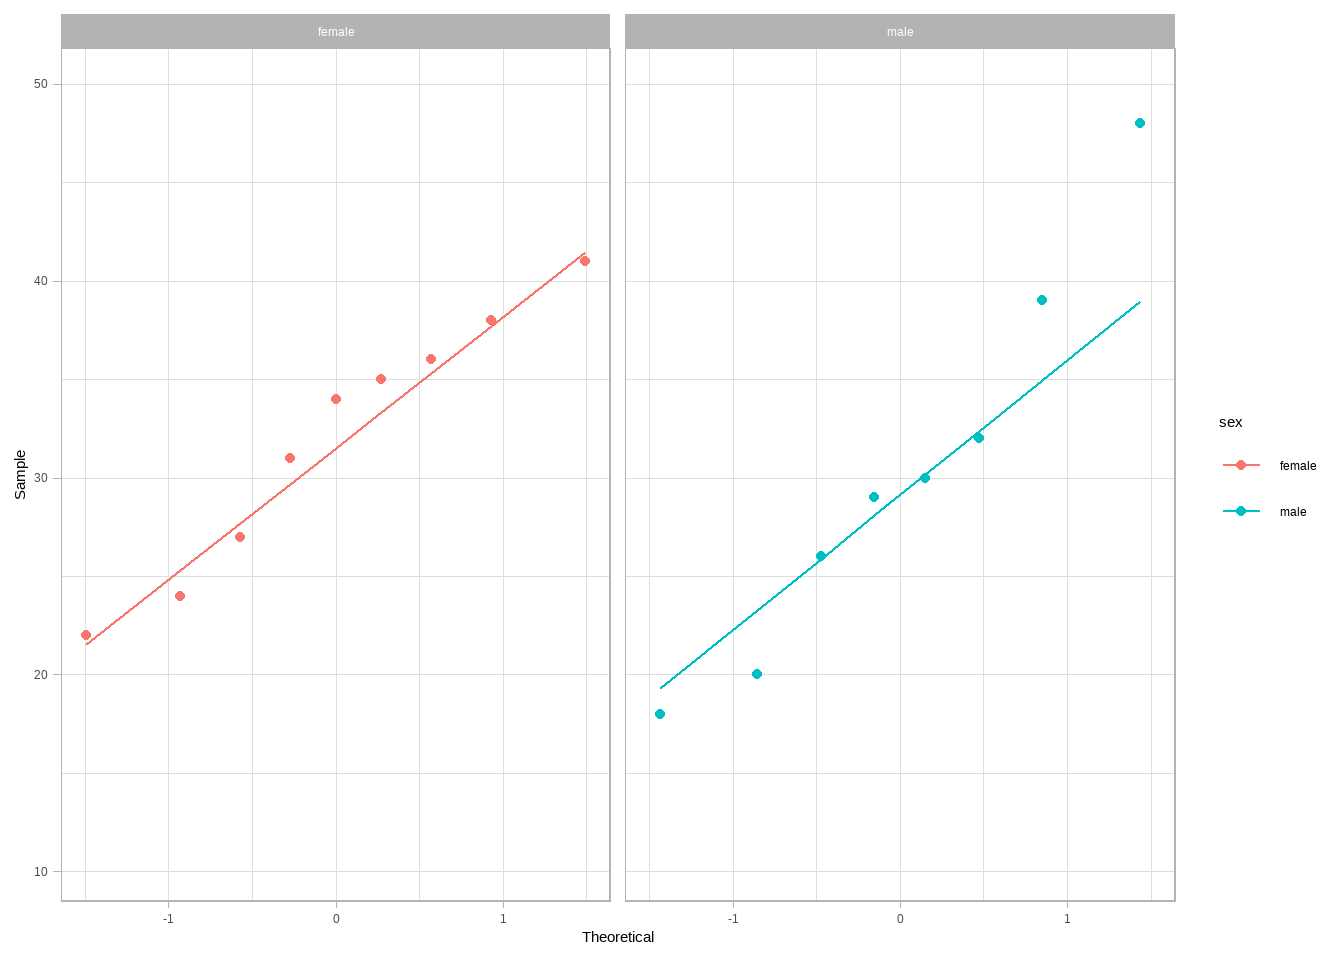
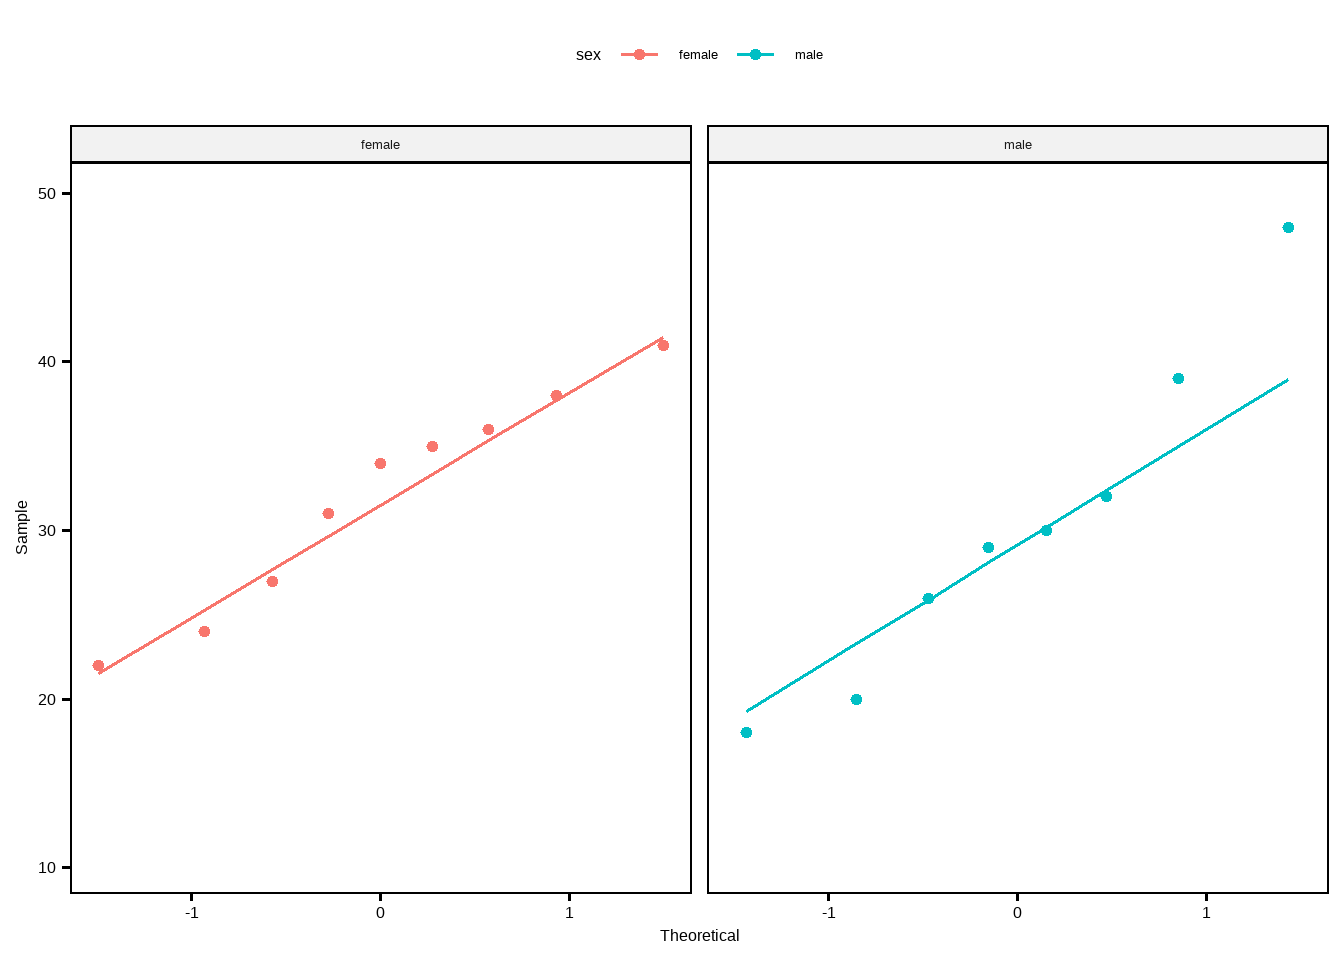
0.1.4

diff --git a/_book/nonparametric.html b/_book/nonparametric.html
@@ -230,7 +230,7 @@ window.Quarto = {
   <ul class="collapse">
   <li><a href="#research-question-1" id="toc-research-question-1" class="nav-link" data-scroll-target="#research-question-1"><span class="header-section-number">3.2.1</span> Research question</a></li>
   <li><a href="#import-dataset-1" id="toc-import-dataset-1" class="nav-link" data-scroll-target="#import-dataset-1"><span class="header-section-number">3.2.2</span> Import dataset</a></li>
-  <li><a href="#descriptive-statistics-and-q-q-plots-1" id="toc-descriptive-statistics-and-q-q-plots-1" class="nav-link" data-scroll-target="#descriptive-statistics-and-q-q-plots-1"><span class="header-section-number">3.2.3</span> Descriptive statistics and Q-Q plots</a></li>
+  <li><a href="#descriptive-statistics-and-q-q-plot" id="toc-descriptive-statistics-and-q-q-plot" class="nav-link" data-scroll-target="#descriptive-statistics-and-q-q-plot"><span class="header-section-number">3.2.3</span> Descriptive statistics and Q-Q plot</a></li>
   <li><a href="#wilcoxon-signed-rank-test" id="toc-wilcoxon-signed-rank-test" class="nav-link" data-scroll-target="#wilcoxon-signed-rank-test"><span class="header-section-number">3.2.4</span> Wilcoxon Signed-Rank Test</a></li>
   </ul></li>
   </ul>
@@ -269,7 +269,7 @@ window.Quarto = {
 </div>
 <div class="callout-body-container callout-body">
 <p>You can download the complete R script from here:</p>
-<p><a href="https://osf.io/download/jznht/" download="psy400_2.R"> <button type="button" class="btn btn-primary"> <i class="bi bi-download"></i> Download R Script </button> </a></p>
+<p><a href="https://osf.io/download/4rcpg/" download="psy400_2.R"> <button type="button" class="btn btn-primary"> <i class="bi bi-download"></i> Download R Script </button> </a></p>
 </div>
 </div>
 <div class="callout callout-style-simple callout-tip callout-titled">
@@ -318,7 +318,7 @@ window.Quarto = {
 </section>
 <section id="import-dataset" class="level3" data-number="3.1.2">
 <h3 data-number="3.1.2" class="anchored" data-anchor-id="import-dataset"><span class="header-section-number">3.1.2</span> Import dataset</h3>
-<p>If the dataset is saved in the subfolder named “data” of our RStudio project, we can read it with the <code>read_excel()</code> function from <code>readxl</code> package as follows:</p>
+<p>If the dataset <em>maths</em> is saved in the subfolder named “data” of our RStudio project, we can read it with the <code>read_excel()</code> function from <code>readxl</code> package as follows:</p>
 <div class="cell">
 <div class="code-copy-outer-scaffold"><div class="sourceCode cell-code" id="cb2"><pre class="sourceCode r code-with-copy"><code class="sourceCode r"><span id="cb2-1"><a href="#cb2-1" aria-hidden="true" tabindex="-1"></a>dat_maths <span class="ot">&lt;-</span> <span class="fu">read_excel</span>(<span class="st">"data/maths.xlsx"</span>)</span>
 <span id="cb2-2"><a href="#cb2-2" aria-hidden="true" tabindex="-1"></a>dat_maths</span></code></pre></div><button title="Copy to Clipboard" class="code-copy-button"><i class="bi"></i></button></div>
@@ -367,9 +367,8 @@ window.Quarto = {
 <p><br></p>
 <div class="cell">
 <div class="code-copy-outer-scaffold"><div class="sourceCode cell-code" id="cb6"><pre class="sourceCode r code-with-copy"><code class="sourceCode r"><span id="cb6-1"><a href="#cb6-1" aria-hidden="true" tabindex="-1"></a><span class="co"># Q_Q plots using the package ggpubr</span></span>
-<span id="cb6-2"><a href="#cb6-2" aria-hidden="true" tabindex="-1"></a><span class="fu">ggqqplot</span>(dat_maths, <span class="st">"score"</span>, <span class="at">color =</span> <span class="st">"sex"</span>, <span class="at">conf.int =</span> <span class="cn">FALSE</span>) <span class="sc">+</span></span>
-<span id="cb6-3"><a href="#cb6-3" aria-hidden="true" tabindex="-1"></a>  <span class="fu">facet_wrap</span>(<span class="sc">~</span> sex) <span class="sc">+</span></span>
-<span id="cb6-4"><a href="#cb6-4" aria-hidden="true" tabindex="-1"></a>  <span class="fu">theme_light</span>()</span></code></pre></div><button title="Copy to Clipboard" class="code-copy-button"><i class="bi"></i></button></div>
+<span id="cb6-2"><a href="#cb6-2" aria-hidden="true" tabindex="-1"></a><span class="fu">ggqqplot</span>(dat_maths, <span class="st">"score"</span>, <span class="at">color =</span> <span class="st">"sex"</span>, <span class="at">conf.int =</span> <span class="cn">FALSE</span>,</span>
+<span id="cb6-3"><a href="#cb6-3" aria-hidden="true" tabindex="-1"></a>         <span class="at">facet.by =</span> <span class="st">"sex"</span>)</span></code></pre></div><button title="Copy to Clipboard" class="code-copy-button"><i class="bi"></i></button></div>
 <div class="cell-output-display">
 <div>
 <figure class="figure">
@@ -405,7 +404,7 @@ alternative hypothesis: true location shift is not equal to 0</code></pre>
 </section>
 <section id="import-dataset-1" class="level3" data-number="3.2.2">
 <h3 data-number="3.2.2" class="anchored" data-anchor-id="import-dataset-1"><span class="header-section-number">3.2.2</span> Import dataset</h3>
-<p>If the dataset is saved in the subfolder named “data” of our RStudio project, we can read it with the <code>read_excel()</code> function from <code>readxl</code> package as follows:</p>
+<p>If the dataset <em>boxbreathing</em> is saved in the subfolder named “data” of our RStudio project, we can read it with the <code>read_excel()</code> function from <code>readxl</code> package as follows:</p>
 <div class="cell">
 <div class="code-copy-outer-scaffold"><div class="sourceCode cell-code" id="cb9"><pre class="sourceCode r code-with-copy"><code class="sourceCode r"><span id="cb9-1"><a href="#cb9-1" aria-hidden="true" tabindex="-1"></a>dat_BPM <span class="ot">&lt;-</span> <span class="fu">read_excel</span>(<span class="st">"data/boxbreathing.xlsx"</span>)</span>
 <span id="cb9-2"><a href="#cb9-2" aria-hidden="true" tabindex="-1"></a>dat_BPM</span></code></pre></div><button title="Copy to Clipboard" class="code-copy-button"><i class="bi"></i></button></div>
@@ -450,8 +449,8 @@ alternative hypothesis: true location shift is not equal to 0</code></pre>
 </div>
 </div>
 </section>
-<section id="descriptive-statistics-and-q-q-plots-1" class="level3" data-number="3.2.3">
-<h3 data-number="3.2.3" class="anchored" data-anchor-id="descriptive-statistics-and-q-q-plots-1"><span class="header-section-number">3.2.3</span> Descriptive statistics and Q-Q plots</h3>
+<section id="descriptive-statistics-and-q-q-plot" class="level3" data-number="3.2.3">
+<h3 data-number="3.2.3" class="anchored" data-anchor-id="descriptive-statistics-and-q-q-plot"><span class="header-section-number">3.2.3</span> Descriptive statistics and Q-Q plot</h3>
 <div class="cell">
 <div class="code-copy-outer-scaffold"><div class="sourceCode cell-code" id="cb13"><pre class="sourceCode r code-with-copy"><code class="sourceCode r"><span id="cb13-1"><a href="#cb13-1" aria-hidden="true" tabindex="-1"></a><span class="co"># descriptive statistics using the package dlookr</span></span>
 <span id="cb13-2"><a href="#cb13-2" aria-hidden="true" tabindex="-1"></a></span>
@@ -470,8 +469,7 @@ alternative hypothesis: true location shift is not equal to 0</code></pre>
 <p><br></p>
 <div class="cell">
 <div class="code-copy-outer-scaffold"><div class="sourceCode cell-code" id="cb15"><pre class="sourceCode r code-with-copy"><code class="sourceCode r"><span id="cb15-1"><a href="#cb15-1" aria-hidden="true" tabindex="-1"></a><span class="co"># Q_Q plots using the package ggpubr</span></span>
-<span id="cb15-2"><a href="#cb15-2" aria-hidden="true" tabindex="-1"></a><span class="fu">ggqqplot</span>(dat_BPM, <span class="st">"dif_BPM"</span>, <span class="at">conf.int =</span> <span class="cn">FALSE</span>) <span class="sc">+</span></span>
-<span id="cb15-3"><a href="#cb15-3" aria-hidden="true" tabindex="-1"></a>  <span class="fu">theme_light</span>()</span></code></pre></div><button title="Copy to Clipboard" class="code-copy-button"><i class="bi"></i></button></div>
+<span id="cb15-2"><a href="#cb15-2" aria-hidden="true" tabindex="-1"></a><span class="fu">ggqqplot</span>(dat_BPM, <span class="st">"dif_BPM"</span>, <span class="at">conf.int =</span> <span class="cn">FALSE</span>)</span></code></pre></div><button title="Copy to Clipboard" class="code-copy-button"><i class="bi"></i></button></div>
 <div class="cell-output-display">
 <div>
 <figure class="figure">
